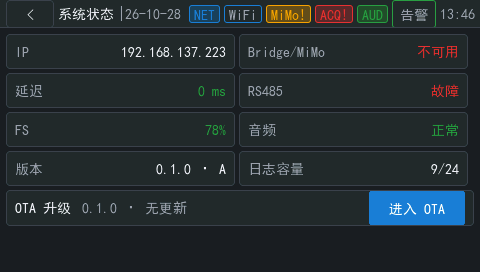
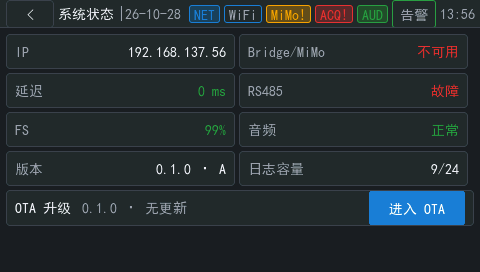
fix(ui): show real eMMC free space on the system page
Enabling the system page exposed a fixed 78% placeholder. Read statfs on
/data instead and show -- when it is unavailable, so the screen never
reports invented storage figures.

Changed region(s): [[0.25, 0.1471, 0.4688, 0.2059], [0.4062, 0.4706, 0.4688, 0.5], [0.9375, 0.0294, 0.9688, 0.0588]]

diff --git a/gui/main/ui/pages/vg_page_system.c b/gui/main/ui/pages/vg_page_system.c
@@ -58,9 +58,14 @@ static void refresh_system(void * user)
              s->latency_ms >= 999 ? vg_color_crit() : vg_color_ok());
     set_tile(s_sys_ui.tile_val[3], s->rs485_ok ? "正常" : "故障",
              s->rs485_ok ? vg_color_ok() : vg_color_crit());
-    lv_snprintf(buf, sizeof(buf), "%d%%", (int)s->fs_free_pct);
-    set_tile(s_sys_ui.tile_val[4], buf,
-             offline ? vg_color_warn() : vg_color_ok());
+    if(s->fs_free_pct >= 0) {
+        lv_snprintf(buf, sizeof(buf), "%d%%", (int)s->fs_free_pct);
+        set_tile(s_sys_ui.tile_val[4], buf,
+                 offline ? vg_color_warn() : vg_color_ok());
+    }
+    else {
+        set_tile(s_sys_ui.tile_val[4], "--", vg_color_muted());
+    }
     set_tile(s_sys_ui.tile_val[5], s->audio_ok ? "正常" : "故障",
              s->audio_ok ? vg_color_ok() : vg_color_crit());
     lv_snprintf(buf, sizeof(buf), "%s · %s", s->version, s->slot);

diff --git a/gui/main/ui/model/vg_model.c b/gui/main/ui/model/vg_model.c
@@ -8,6 +8,7 @@
 #ifdef VG_HMI_BOARD
 #include "vg_alarm_eval.h"
 #include "vg_fw_identity.h"
+#include <sys/statfs.h>
 #endif
 #include <stdio.h>
 #include <stdlib.h>
@@ -980,7 +981,20 @@ static void refresh_sys_status(void)
     s_sys.mimo_ok = s_net.mimo_ok;
     s_sys.latency_ms = s_net.latency_ms;
     s_sys.rs485_ok = s_net.acq_ok;
+#ifdef VG_HMI_BOARD
+    {
+        struct statfs fs;
+        if(statfs("/data", &fs) == 0 && fs.f_blocks > 0) {
+            s_sys.fs_free_pct = (int32_t)(((uint64_t)fs.f_bfree * 100u) /
+                                          (uint64_t)fs.f_blocks);
+        }
+        else {
+            s_sys.fs_free_pct = -1;
+        }
+    }
+#else
     s_sys.fs_free_pct = 78;
+#endif
     s_sys.audio_ok = s_net.aud_ok;
 #ifdef VG_HMI_BOARD
     snprintf(s_sys.version, sizeof(s_sys.version), "%s", vg_fw_version());

diff --git a/docs/ota-evidence/2026-10-28/t02-identity.md b/docs/ota-evidence/2026-10-28/t02-identity.md
@@ -101,7 +101,7 @@ vgota: identity version=0.1.0 slot=A build=06966ea7f721 link=90000000
 
 ## 屏幕
 
-系统页显示 `版本 0.1.0 · A`，OTA 行显示 `0.1.0 · 无更新`：
+系统页显示 `版本 0.1.0 · A`，OTA 行显示 `0.1.0 · 无更新`。FS 瓦片改为读取 `/data` 的 `statfs`，截图中为 99%：
 
 ![系统页版本和槽位](t02-system-page.png)
 
